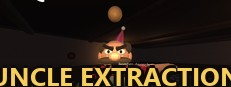
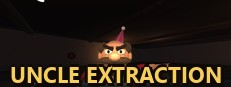
Clean capsule drafts (no aim label or head orb, title fitted per size); demo ZIP prepared; network result recorded (16/17, race open)

Changed region(s): [[0.0, 0.7126, 1.0, 1.0], [0.4545, 0.069, 0.5455, 0.2529]]

diff --git a/PROGRESS.md b/PROGRESS.md
@@ -34,7 +34,7 @@
 | PlayMode: desafíos, torre, parte, guía, entrada real | `2b36fd4` → `9fbdbe3` | Sin carrito: gana solo en 21,7 s; Ruta estrecha: gana solo en 40,4 s por el paso; torre: el carrito a 2,2 m/s la tira y el tío se distrae; se rearma al reiniciar; guía y entrada real verdes |
 | PlayMode: intentos completos solo (laboratorio, articulado) + desafíos | `9fbdbe3` (código) | **12/12** (incluye los intentos con carrito del laboratorio articulado) |
 | PlayMode completa | {PM} | {PMRES} |
-| Red en localhost (17 escenarios, incluye 4 procesos y latencia simulada) | build `9fbdbe3` | {NET} |
+| Red en localhost (17 escenarios, incluye 4 procesos y latencia simulada) | build `9fbdbe3` | **16/17 PASS**; `race` FAIL (rechazos=0). Repetido ×3: 1 PASS, 2 FAIL. Causa vista en el registro: el invitado tenía como candidato el antebrazo y no el cinturón, así que no hubo disputa simultánea que medir; la invariante (un solo ganador, nunca dos manos en el mismo punto) se cumplió en las 4 corridas. En las sesiones 13–14 había pasado 3/3: **abierto**, revisar la puntería del autopiloto en la carrera |
 | Cuatro procesos reales con capturas | build `S15` previa | Sala con selector de desafío, agarres simultáneos, carrito, cierre de la camioneta (`.local-setup/clips/cuatro_*.png`) |
 | Capturas comparables antes/después | builds `85998c0` y `S15` | `docs/capturas/sesion15/antes_despues.jpg` |
 | Clips de juego real | build `S15` | 3 verticales + 2 horizontales (WebP) en `docs/lanzamiento/clips/` |
